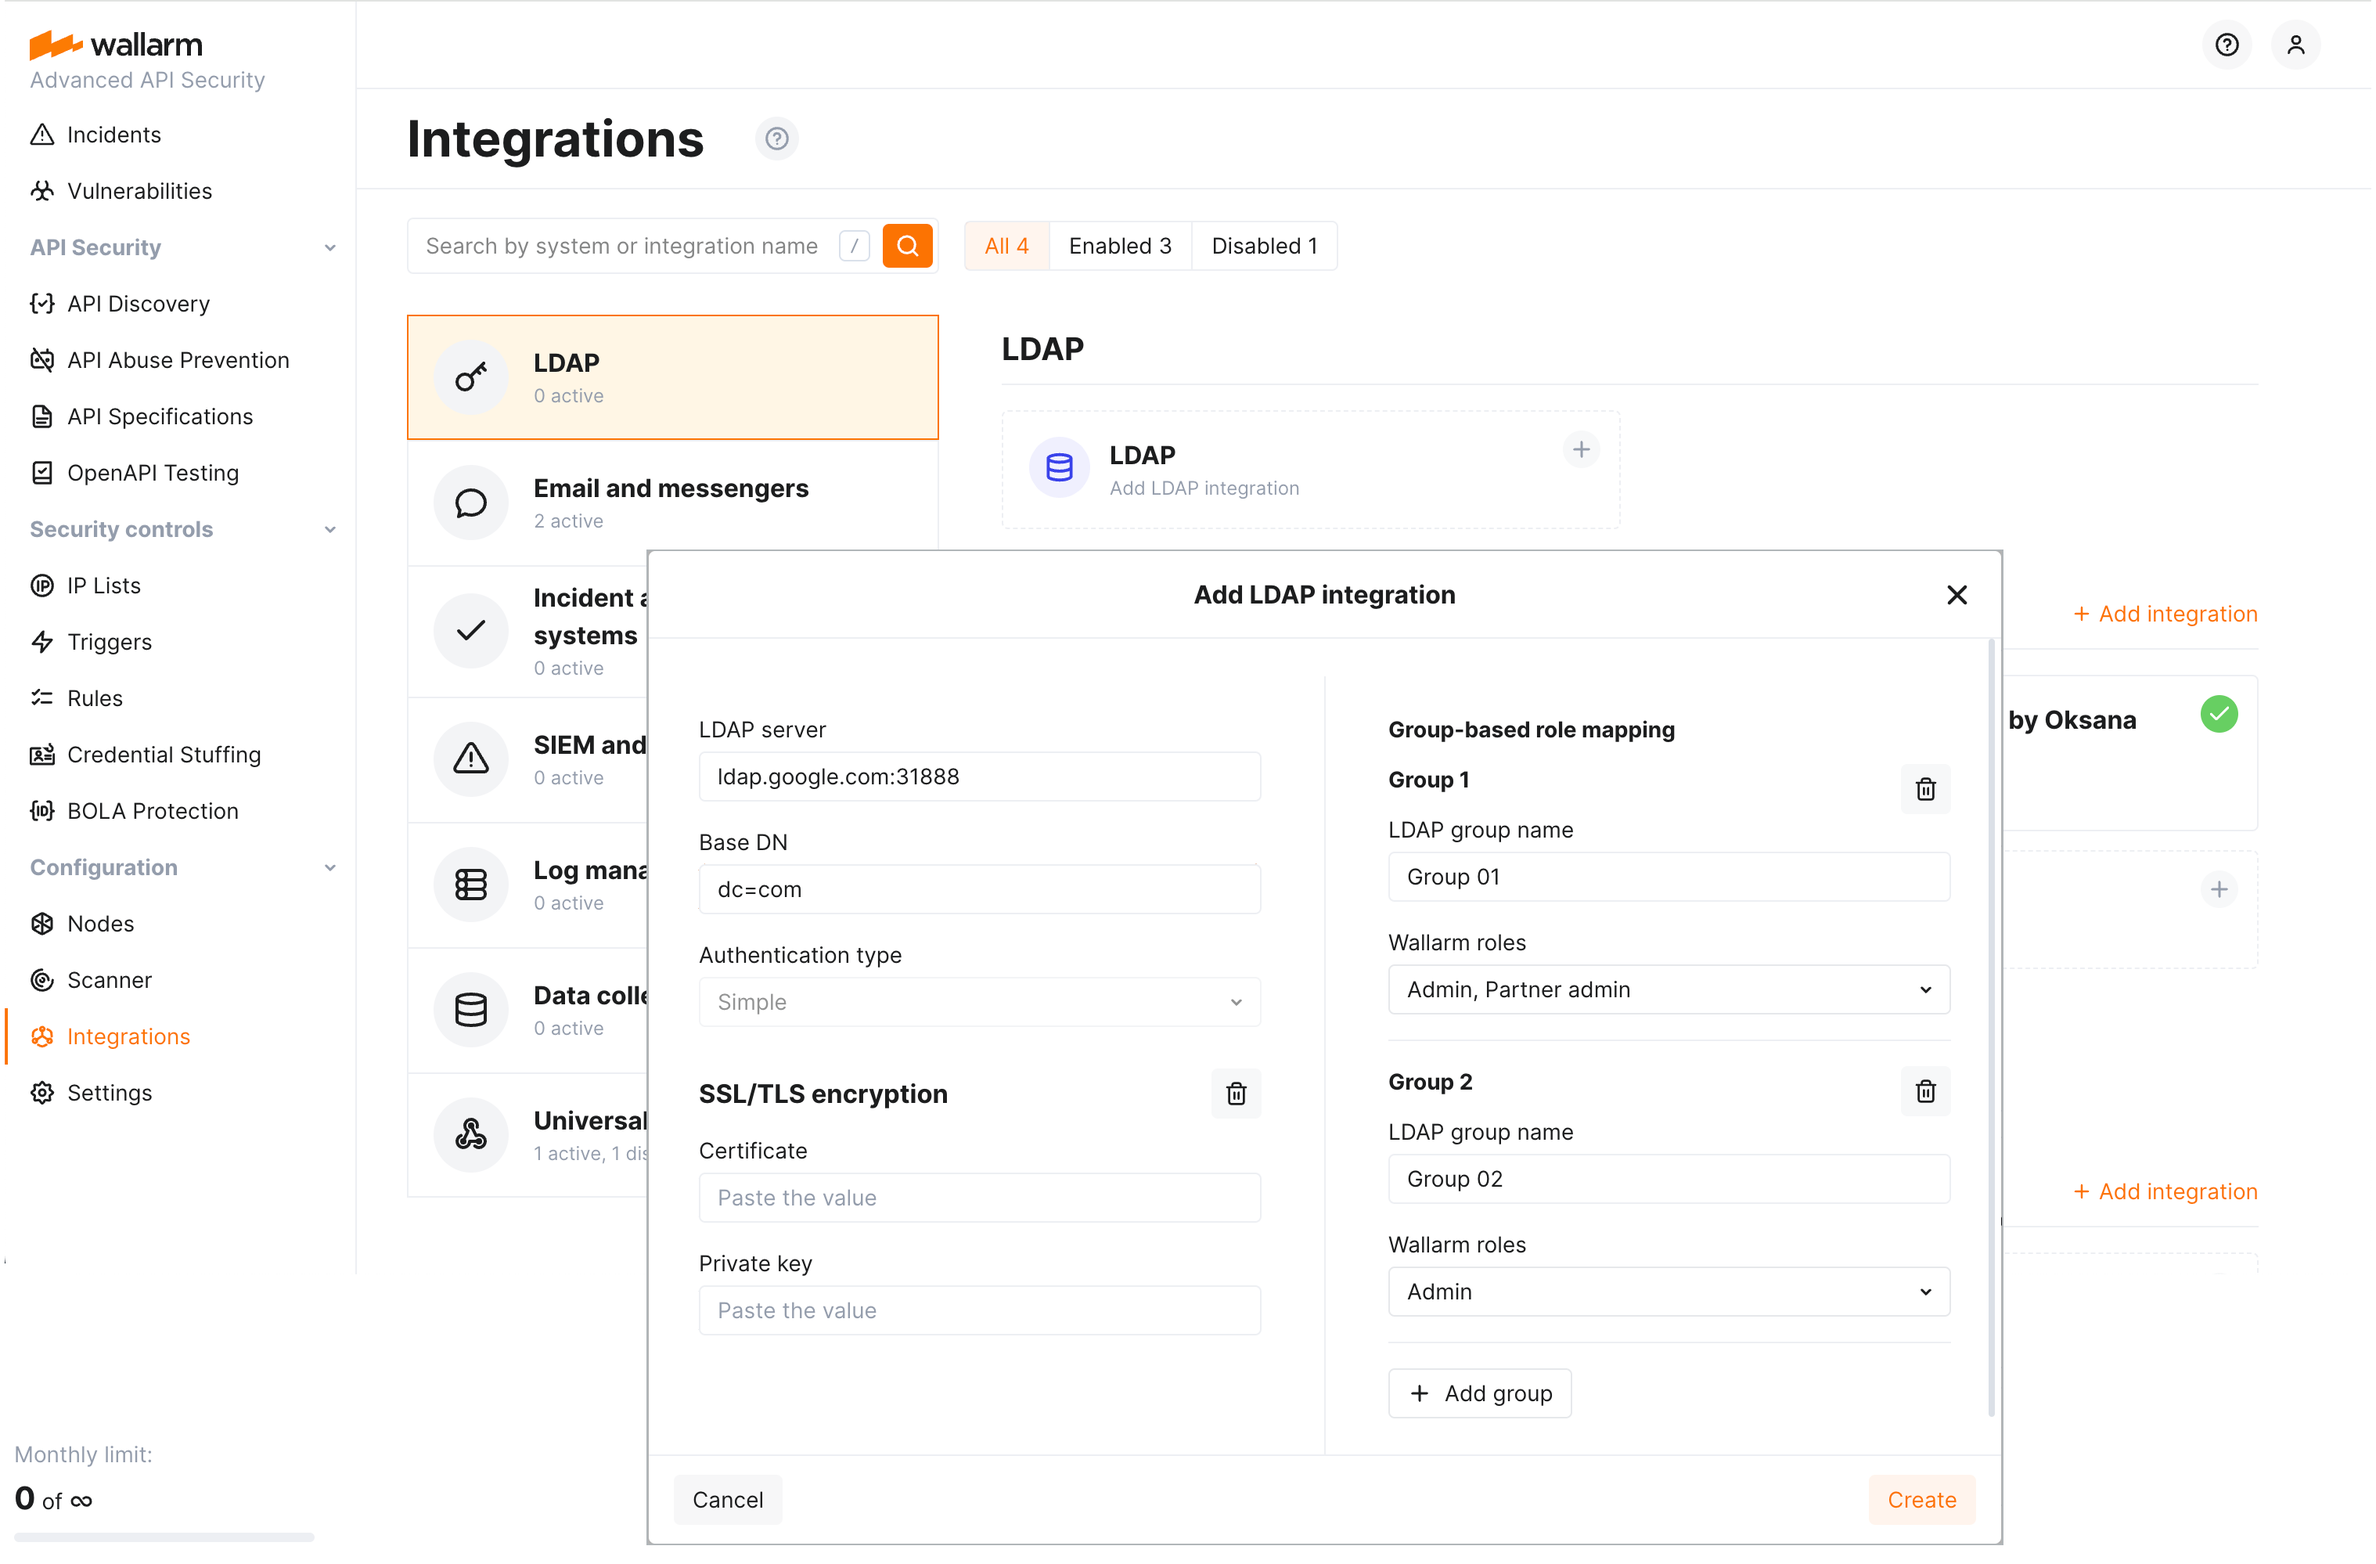
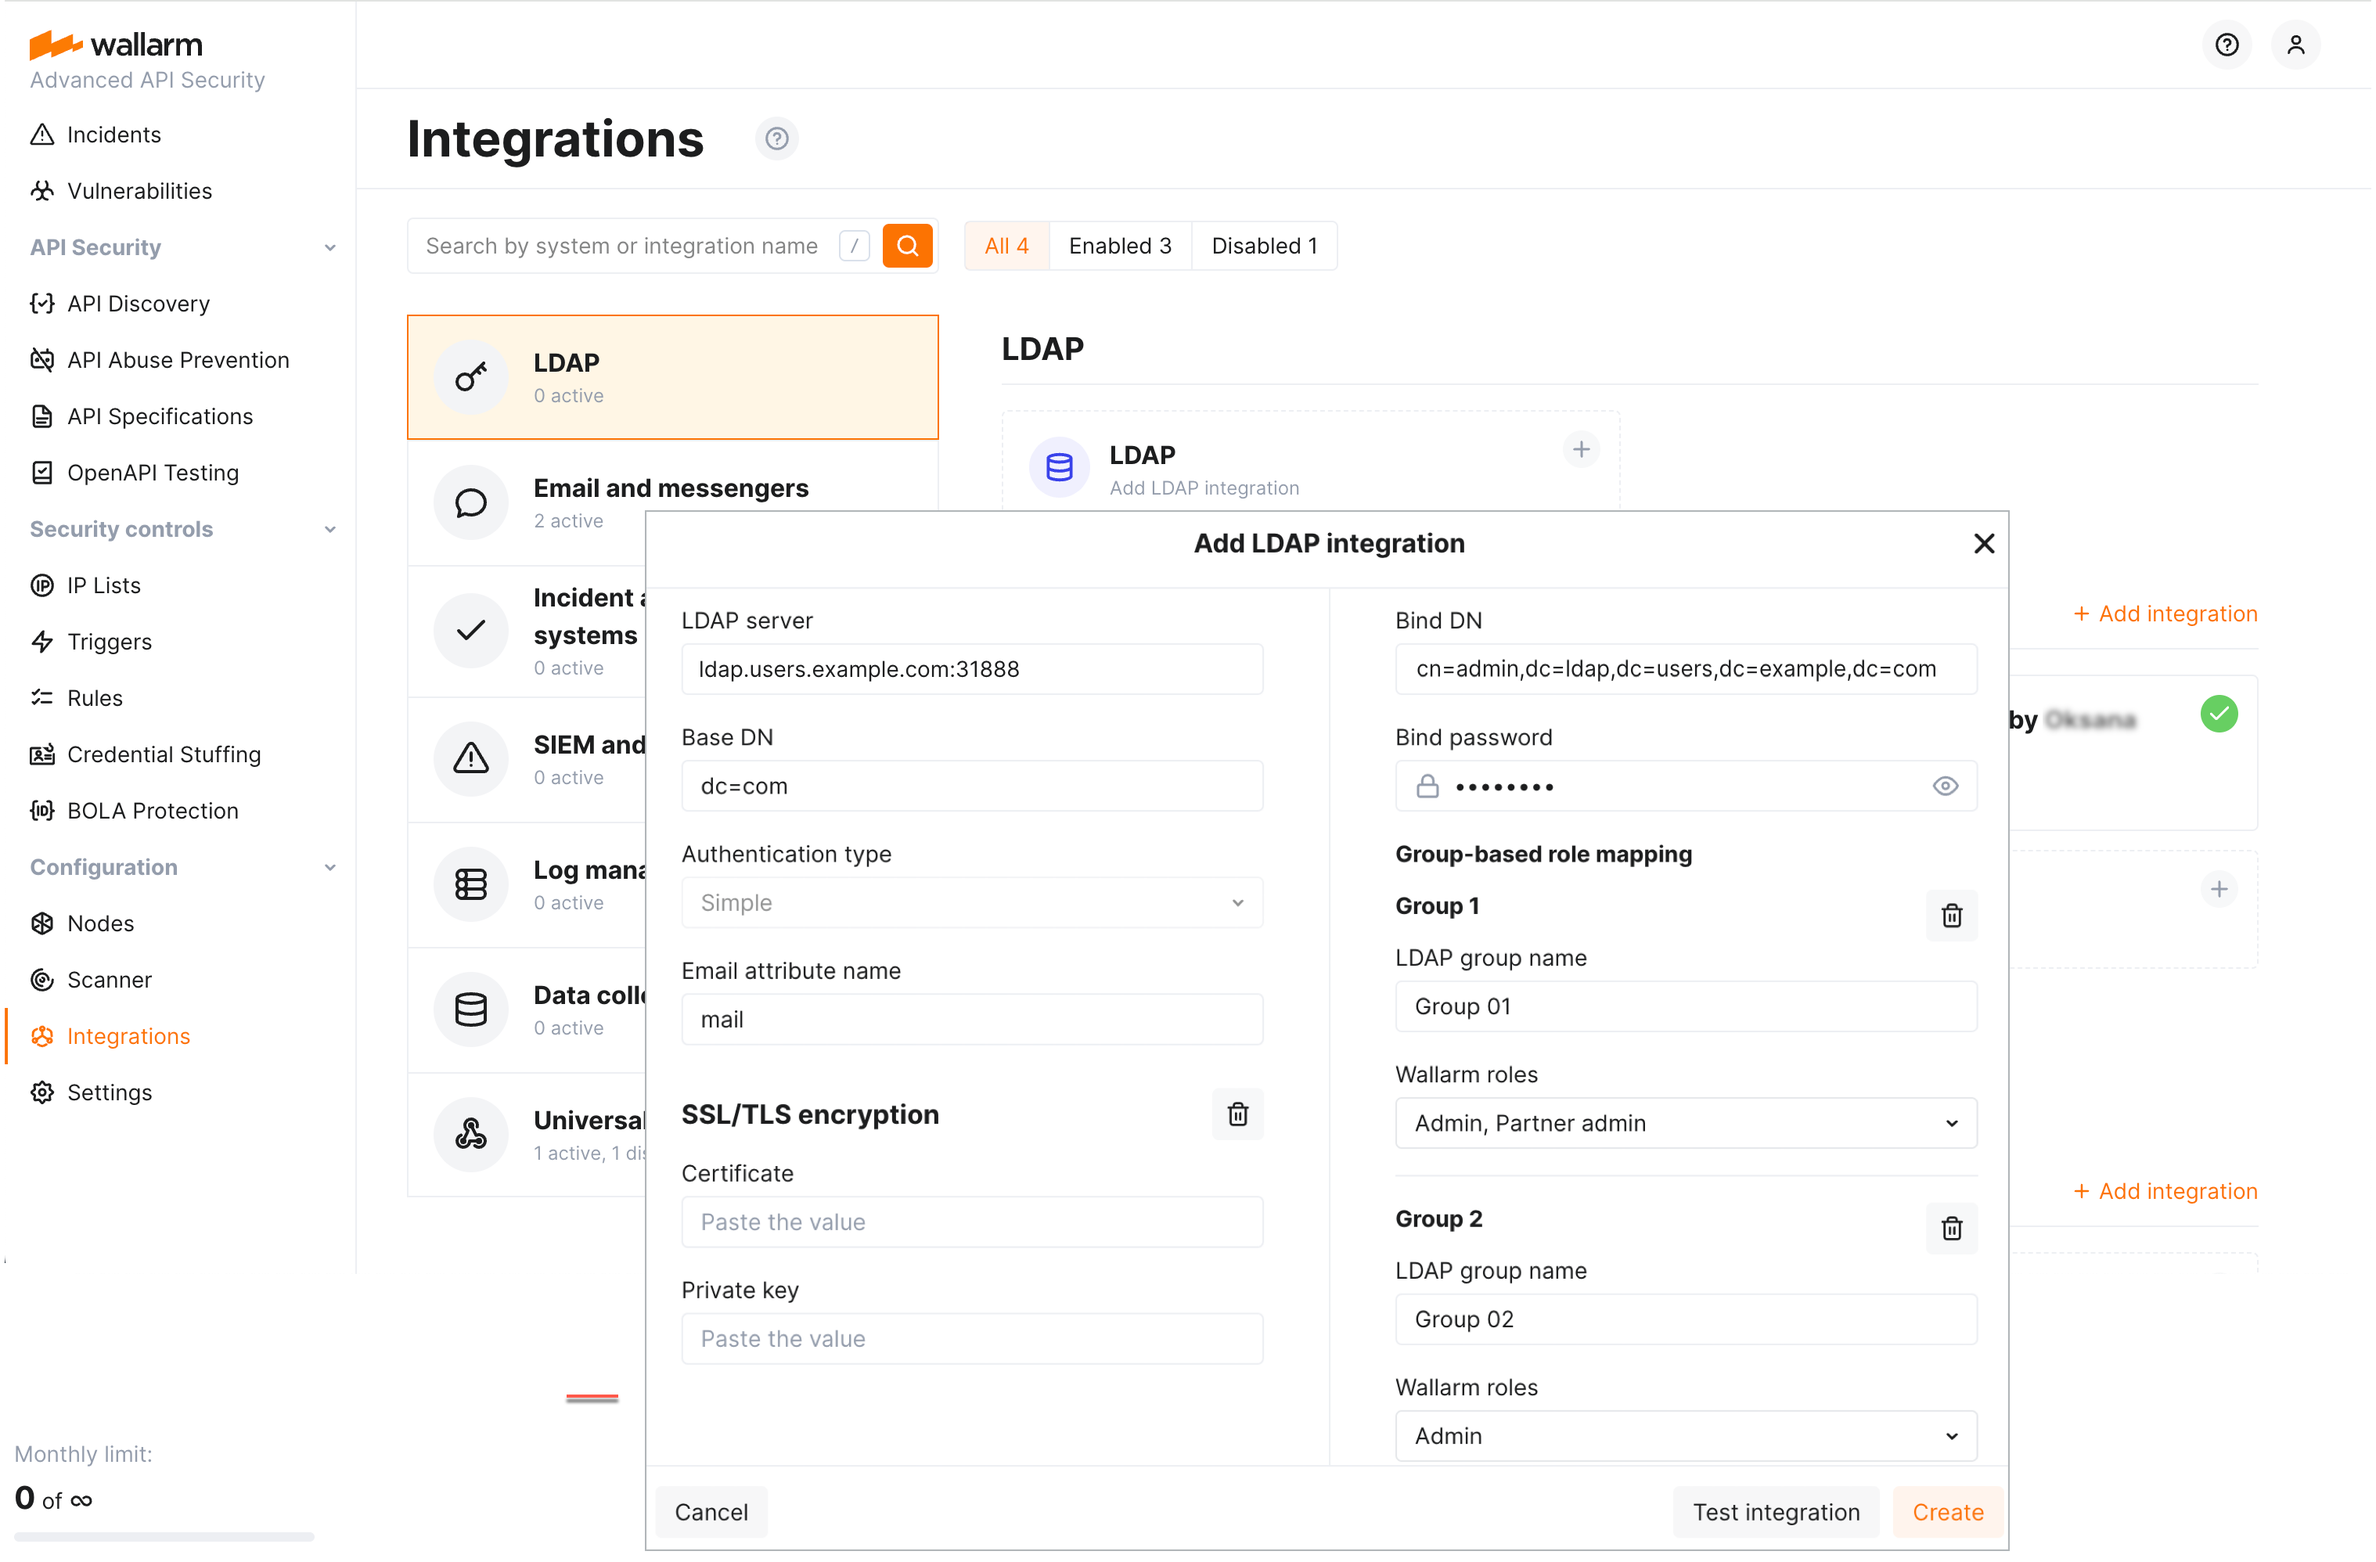
DOCS-2624 New in LDAP integration

diff --git a/docs/latest/admin-en/configuration-guides/ldap/ldap.md b/docs/latest/admin-en/configuration-guides/ldap/ldap.md
@@ -21,6 +21,13 @@ If [requirements](#requirements) are met, you can configure LDAP integration in 
 
 ![Configuring LDAP integration](../../../images/admin-guides/configuration-guides/ldap/configuring-ldap.png)
 
-As basic options, set LDAP server URL and port in **LDAP Server**, and base distribution name **Base DN**. Select authentication type and, if SSL/TLS encryption should be used, configure it by pasting the corresponding certificate and private key values.
-
 In LDAP integration, you need to map LDAP groups to [user roles](../../../user-guides/settings/users.md#user-roles) in Wallarm. You need to map at least one LDAP group and may add as many additional as necessary.
+
+As basic options, set: 
+
+* LDAP server URL and port in **LDAP Server**.
+* Base distribution name **Base DN**.
+* **Bind DN** and password: full name of an object in the LDAP hierarchy that is used to bind (connect) to LDAP server. Should be accompanied by the password.
+* **Email attribute name** specifies the name of the field at the LDAP server, where user email should be stored.
+* Authentication type is set to `Simple` and cannot be changed.
+* If SSL/TLS encryption should be used, configure it by pasting the corresponding certificate and private key values.
